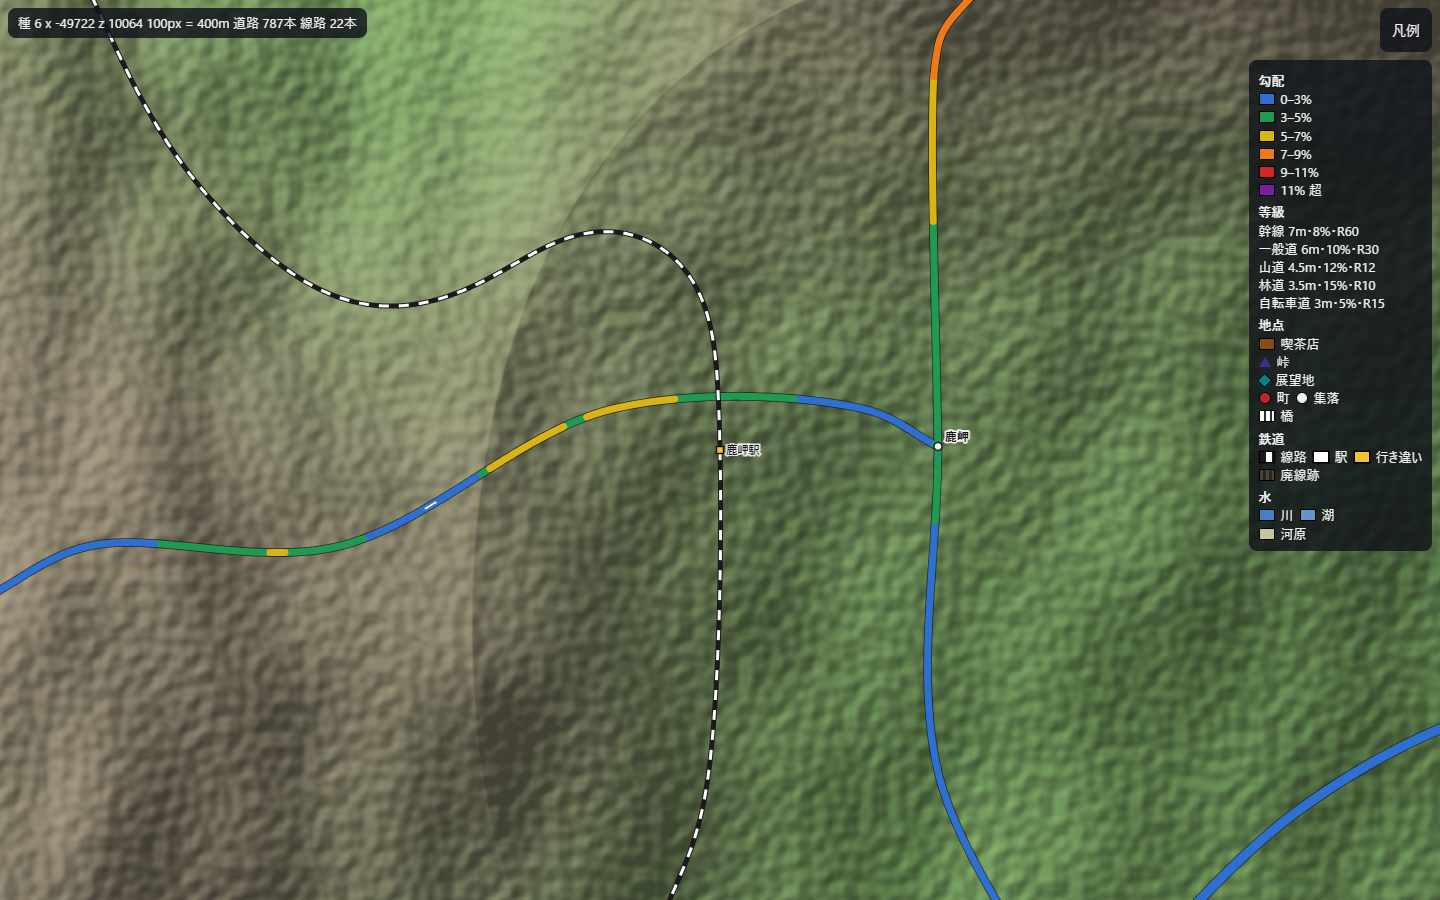
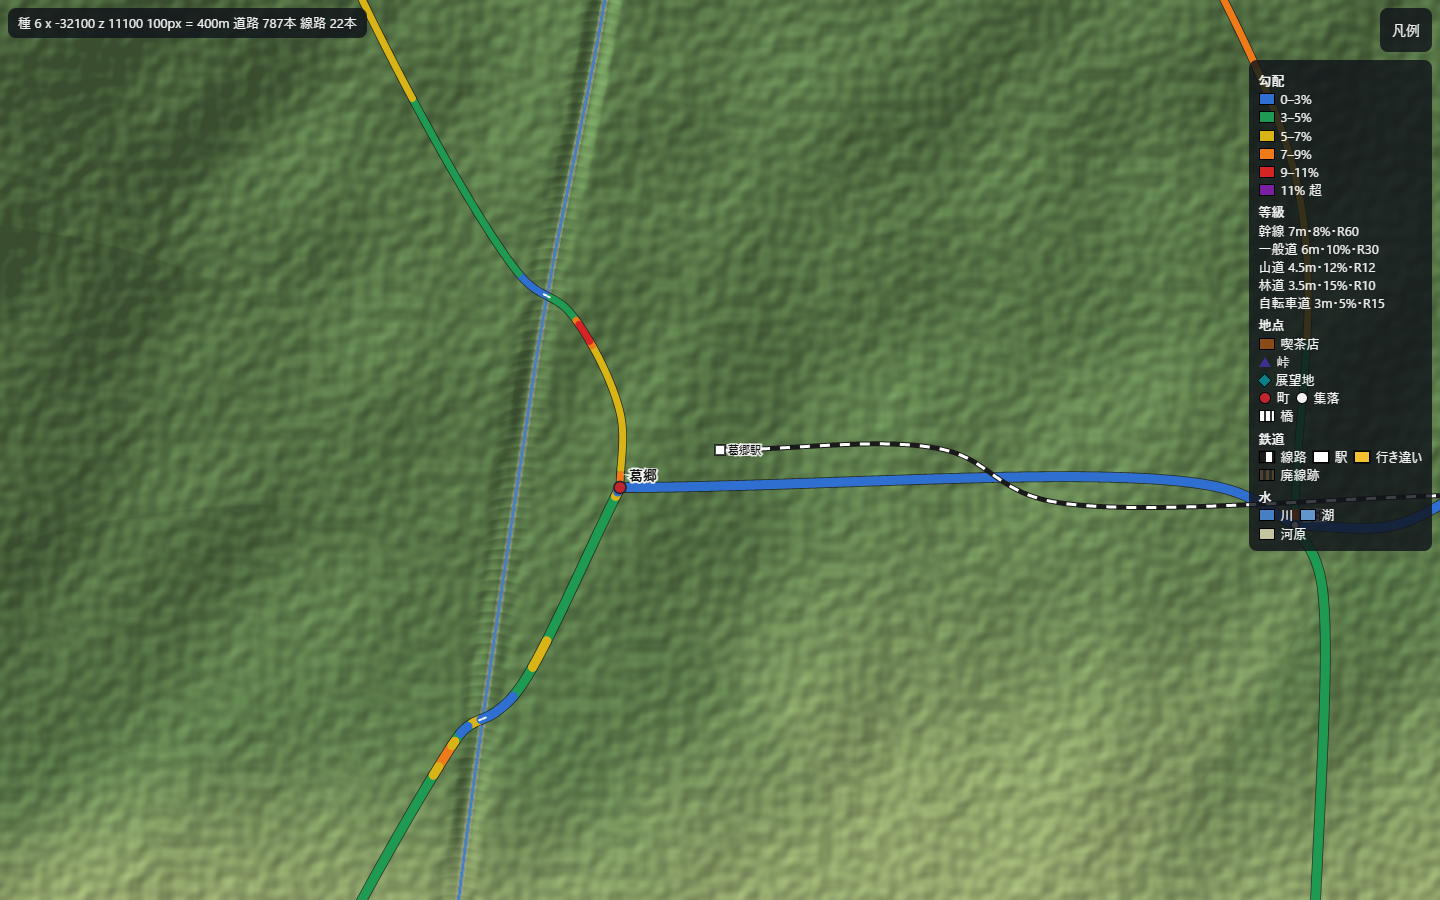
鉄道 L1: 起点の葛郷を必ず拠点にする（2026-11-14 決定）、回り込みが直線の 1.7 倍を超える辺は作らない

diff --git a/src/shared/world/rail.ts b/src/shared/world/rail.ts
@@ -4,7 +4,7 @@
 // 分岐に関わる計算は加減乗除・sqrt・floor・abs・min・max だけで書く。
 
 import { now } from "./clock.ts";
-import { MAX_SEA_CROSSING, NODE_CELL, ROAD_MIN_ELEVATION } from "./constants.ts";
+import { MAX_SEA_CROSSING, NODE_CELL, ORIGIN, ROAD_MIN_ELEVATION } from "./constants.ts";
 import { hashUnit } from "./hash.ts";
 import { longestSeaRun, nodeLess } from "./nodes.ts";
 import { findRailRoute, RAIL_ROUTE_PARAMS, type RailGrid } from "./rail-route.ts";
@@ -26,6 +26,8 @@ const RAIL_MARGIN = 3000;
 export const RAIL_MAX_GRADE = 0.025;
 const TRUNK_MIN_RADIUS = 300;
 const BRANCH_MIN_RADIUS = 200;
+/** 経路の長さが直線のこの倍（＋2km）を超える辺は作らない（大きく回り込んで高さを稼ぐ線を作らない）【初期値】 */
+const MAX_DETOUR = 1.7;
 /** 辺の最大の長さ (m) */
 const MAX_EDGE = 60000;
 /** 支線を出す拠点の割合と、廃線にする支線の割合 */
@@ -109,13 +111,14 @@ export class Railways {
     const key = `${rcx},${rcz}`;
     if (this.hubCache.has(key)) return this.hubCache.get(key)!;
     let h = this.rawHub(rcx, rcz);
-    if (h)
+    // 起点の葛郷は必ず拠点にする（決定 2026-11-14）。葛郷から 12km 以内の隣の拠点は作らない
+    if (h && h.id !== ORIGIN.node)
       for (let dz = -1; dz <= 1 && h; dz++)
         for (let dx = -1; dx <= 1 && h; dx++) {
           if (!dx && !dz) continue;
           const o = this.rawHub(rcx + dx, rcz + dz);
           if (!o || d2(o, h) > HUB_GAP * HUB_GAP) continue;
-          if (o.importance > h.importance || (o.importance === h.importance && nodeLess(o, h))) h = null;
+          if (o.id === ORIGIN.node || o.importance > h.importance || (o.importance === h.importance && nodeLess(o, h))) h = null;
         }
     this.hubCache.set(key, h);
     return h;
@@ -125,6 +128,15 @@ export class Railways {
     const key = `${rcx},${rcz}`;
     if (this.rawHubCache.has(key)) return this.rawHubCache.get(key)!;
     const k = RAIL_CELL / NODE_CELL;
+    // 起点の格子では起点の町を拠点の候補にする
+    const [ocx, ocz] = ORIGIN.node.slice(2).split("_").map(Number);
+    if (Math.floor(ocx / k) === rcx && Math.floor(ocz / k) === rcz) {
+      const o = this.world.node(ocx, ocz);
+      if (o) {
+        this.rawHubCache.set(key, o);
+        return o;
+      }
+    }
     let best: WorldNode | null = null;
     for (let j = 0; j < k; j++)
       for (let i = 0; i < k; i++) {
@@ -370,7 +382,6 @@ export class Railways {
     const gz = Math.round(b.z / RAIL_GRID) - grid.iz0;
     const route = findRailRoute(grid, sx, sz, gx, gz, { ...RAIL_ROUTE_PARAMS, maxGrade: RAIL_MAX_GRADE });
     if (!route) return { line: null, expanded: 0 };
-    // 経路の費用が直線の 3 倍を超える辺は作らない（遠回りの線は引かない）
     const n0 = route.cells.length / 2;
     const raw = new Float64Array(n0 * 2);
     const keep = new Uint8Array(n0);
@@ -388,7 +399,7 @@ export class Railways {
     raw[(n0 - 1) * 2] = b.x;
     raw[(n0 - 1) * 2 + 1] = b.z;
     const straight = Math.sqrt((a.x - b.x) * (a.x - b.x) + (a.z - b.z) * (a.z - b.z));
-    if (polylineLength(raw) > 3 * straight + 2000) return { line: null, expanded: route.expanded };
+    if (polylineLength(raw) > MAX_DETOUR * straight + 2000) return { line: null, expanded: route.expanded };
     const minR = e.kind === "trunk" ? TRUNK_MIN_RADIUS : BRANCH_MIN_RADIUS;
     let xz = shapeCenterline(raw, keep, minR, RAIL_STEP);
     // 線路は道路より曲がりにくいので、半径が足りない所が残れば、ゆるめる回数を増やす

diff --git a/tests/rail.test.ts b/tests/rail.test.ts
@@ -1,12 +1,12 @@
 import { describe, expect, it } from "vitest";
-import { WORLD_SEED } from "../src/shared/world/constants.ts";
+import { ORIGIN, WORLD_SEED } from "../src/shared/world/constants.ts";
 import { railHash, roadsHash } from "../src/shared/world/inspect.ts";
 import { RAIL_MAX_GRADE, solveProfile } from "../src/shared/world/rail.ts";
 import { circumradius } from "../src/shared/world/shape.ts";
 import { World } from "../src/shared/world/world.ts";
 
-// 起点の西の、線路が 1 本通る 16km 四方
-const RECT = { x0: -53000, z0: 0, x1: -37000, z1: 16000 };
+// 起点の葛郷（必ず拠点）の東の 16km 四方。葛新線が通る
+const RECT = { x0: -34000, z0: 3000, x1: -18000, z1: 19000 };
 
 describe("鉄道の生成（鉄道の草案 L1）", () => {
   const w = new World(WORLD_SEED);
@@ -14,6 +14,8 @@ describe("鉄道の生成（鉄道の草案 L1）", () => {
 
   it("線路が引かれ、勾配 2.5% と最小曲線半径を守り、駅は 3km 以上離れる", () => {
     expect(lines.length).toBeGreaterThan(0);
+    // 起点の葛郷は拠点で、線の端の駅になる
+    expect(lines.some((l) => l.start === ORIGIN.node || l.end === ORIGIN.node)).toBe(true);
     for (const l of lines) {
       const P = l.points;
       const n = P.length / 3;

diff --git a/artifacts/rail/summary.md b/artifacts/rail/summary.md
@@ -6,7 +6,7 @@
 
 | 部分 | ファイル | 中身 |
 |---|---|---|
-| 拠点と路線網 | `src/shared/world/rail.ts` | 24km 格子ごとに重要度のいちばん高い町（標高 400m 未満）を拠点にする。隣の格子の候補が 12km 以内で重要度が高ければ拠点にしない。幹線は拠点どうしの相対近傍グラフ（周囲 5×5 の格子、60km まで、海を 300m 以上渡らない）。支線は拠点の 30% から、8〜22km 先の拠点でない町へ（海沿いを好み、幹線と同じ向きは避ける）。支線の 35% は廃線 |
+| 拠点と路線網 | `src/shared/world/rail.ts` | 24km 格子ごとに重要度のいちばん高い町（標高 400m 未満）を拠点にする。隣の格子の候補が 12km 以内で重要度が高ければ拠点にしない。起点の葛郷は必ず拠点にし、葛郷から 12km 以内には別の拠点を作らない（決定 2026-11-14）。経路が直線の 1.7 倍＋2km より長くなる辺は作らない（大きく回り込んで高さを稼ぐ線を作らない）。幹線は拠点どうしの相対近傍グラフ（周囲 5×5 の格子、60km まで、海を 300m 以上渡らない）。支線は拠点の 30% から、8〜22km 先の拠点でない町へ（海沿いを好み、幹線と同じ向きは避ける）。支線の 35% は廃線 |
 | 経路探索 | `src/shared/world/rail-route.ts` | 100m 格子の A*（16 方向、1 歩で 45° まで）。勾配 2.5% を超える 1 歩の代わりに、まっすぐ跳んで地面の高い所をトンネル（地面が 12m 以上高い）、低い所を高架（8m 以上低い）で抜ける移動を試す。海・湖の橋は道路と同じ 300m まで |
 | 形と縦断 | `rail.ts`、`shape.ts`（点の間隔を引数にした。道路は 2m のまま） | 5m 間隔。最小曲線半径 幹線 300m・支線 200m（道路の整形の後に、線路だけゆるめる回数を足した）。縦断は σ150m で平滑化し、両端と道路との交わりを固定点にして、区間ごとの勾配の上限（2.5%、駅の前後 150m（支線 80m）は 0.3%）を守る列を解く（`solveProfile`）。両立しない固定点は外して数える |
 | 駅 | `rail.ts` | 拠点・終点の駅は、町の中心（道路の集まる接続点）から 300〜450m 離れた、平らで水の無い、道路から 50m 以上の所。途中の駅は線から 1km 以内の町・集落、駅どうし 3km 以上（重要度の高い方を残す）。前の行き違いの駅から 8km 以上の駅を行き違いの駅にする。橋・トンネルの中の途中の駅は外す。駅名は町・集落の名前。線の名前は両端の町の 1 字ずつ（「〇〇線」）、支線は終点の町の名前 |
@@ -24,33 +24,36 @@
 
 | 項目 | 値 |
 |---|---|
-| 拠点 | 17（葛郷は拠点ではない） |
-| 線 | 23（経路が見つからなかった辺 0） |
-| 延長 | 幹線 580km、支線 34km、廃線 15km |
-| 駅 | 76（拠点 43・行き違い 29・小さな駅 30・終着 3 は線ごとの数） |
-| 道路との交わり | 踏切 169、跨道橋 39、橋の下 0、解けない 12（5%）。線 10km あたり 3.3 |
-| トンネル・橋 | 3.6km・7.7km |
+| 拠点 | 18（葛郷を含む） |
+| 線 | 22（作らなかった辺 3: どれも 1.7 倍を超える回り込み） |
+| 延長 | 幹線 485km（100km² あたり 4.8km）、支線 34km、廃線 15km |
+| 駅 | 67（拠点 41・行き違い 24・小さな駅 25・終着 3 は線ごとの数） |
+| 道路との交わり | 踏切 145、跨道橋 32、橋の下 0、解けない 9（5%）。線 10km あたり 3.3 |
+| トンネル・橋 | 0km・2.0km（トンネルのあった山の線は回り込みが大きく、作らなかった） |
 | 最大勾配 | 2.5%（上限を超える区間 0） |
 | 最小曲線半径 | 294m（±30m の 3 点で測る。幹線 300m の 98%） |
-| データ量 | 点 12.6 万、1.5MB（Float32） |
-| 生成の時間（Node） | 計 24 秒。線 1 本の中央 0.4 秒、最大 5.5 秒（周りの道路の生成を含む） |
+| 道路の上を走る区間 | 5.3km（全体の 1%。道路の中心から 半幅＋4m 以内。浅い角度の交わりと短い並走） |
+| データ量 | 点 10.7 万、1.3MB（Float32） |
+| 生成の時間（Node） | 計 25 秒。線 1 本の中央 0.5 秒、最大 2.6 秒（周りの道路の生成を含む） |
 
 - 端末間の一致（`scripts/cross-engine.mjs`、`rail=1`）: Node・Chrome・Edge・WebKit で線路のハッシュが一致（36km 四方、線 2 本）。Firefox はこの PC では起動できない（今までと同じ）。
 - 線路を引いても道路のハッシュは変わらない（テスト）。
 - テスト 98 件（鉄道の 3 件を追加: 勾配・曲線半径・駅の間隔、問い合わせの順序によらず同じ・道路が変わらない、縦断の固定点）。
-- 2D 地図の画面写真: `map-wide.png`（100km 四方）、`map-origin.png`（葛郷の周り）、`map-station.png`（いちばん近い行き違いの駅、鹿岬）。地図の Worker で 100km 四方の線路がそろうまで 84 秒。
+- 2D 地図の画面写真: `map-wide.png`（100km 四方）、`map-origin.png`（葛郷の周り）、`map-origin-near.png`・`map-station.png`（葛郷駅。町の中心から北東へ 400m）。地図の Worker で 100km 四方の線路がそろうまで 86 秒。
 
 ## 見てもらいたい点・決めてもらう点
 
-1. **葛郷の近くに線路が無い。** いちばん近い駅（鹿岬）まで 17km。葛郷（重要度 0.88）は 24km 格子の中で拠点に選ばれず、近くを線も通らない。草案 11 章のとおり、葛郷に駅を置く調整（例: 起点の格子では葛郷を拠点にする）をするか相談したい。
-2. **線路の密度が草案の見込みの上限。** 幹線 580km（100km² あたり 5.8km）。北海道の平均（約 3km）の 2 倍。地図（`map-wide.png`）を見て、多ければ辺を減らす規則（草案 3.2）を入れる。
-3. 解けない交わり 12 か所（5%）。駅や別の交わりのすぐ近く（150m 以内）の踏切が多い。L2 で 3D にする前に、跨道橋に変える・駅をずらす等で 0 に近づけたい。
+1. **葛郷は拠点にした（決定 2026-11-14）。** 最初の試作では葛郷に線路が無く、いちばん近い駅まで 17km だった。拠点にすると葛郷から幹線が 2 本出たが、西の 1 本（茅葛線 72km）は山へ高さを稼ぐために 10km ほど大きく回り込んで戻る形になったので、回り込みの大きい辺は作らない規則を足した。今の葛郷は葛新線（28.8km、東へ）の端の駅。
+2. **線路の密度。** 幹線 485km（100km² あたり 4.8km）。北海道の平均（約 3km）より多い。地図（`map-wide.png`）を見て、多ければ辺を減らす規則（草案 3.2）を入れる。
+3. 解けない交わり 9 か所（5%）。駅や別の交わりのすぐ近く（150m 以内）の踏切が多い。L2 で 3D にする前に、跨道橋に変える・駅をずらす等で 0 に近づけたい。
+4. 線路が道路の上を走る区間が 1%（5.3km）ある。経路探索で道路を見ていないため。L2 の前に、探索に道路の近似（辺の直線など、生成の軽いもの）を入れて 0 にする。
 
 ## 草案と違えた所
 
 - 経路探索で道路を横切る費用（草案 4.1）は入れていない。探索の範囲（最大 40km 四方）の道路をすべて生成すると遅すぎるため、交わりは見つけた線の近くの道路だけで調べる。踏切の数は 線 10km あたり 3.3。
 - 拠点の駅を町の中心から 300〜450m 離した（草案では町の駅としか書いていない）。町の中心は道路の集まる接続点なので、そこで線を終えると踏切の高さが合わない所が多かった（最初の試作で 99 か所のうち 32 か所が解けなかった）。
 - 隣の格子の拠点が 12km 以内にあれば拠点にしない規則を足した（最初の試作で 4〜6km の短い幹線ができたため）。
+- 回り込みが直線の 1.7 倍＋2km を超える辺は作らない（草案は 3.2 で「2.5% で引けない辺は作らない」とだけ書いていた）。
 
 ## 確かめていないこと・残っていること
 

diff --git a/docs/history/specs/2026-11-14-railway-draft.md b/docs/history/specs/2026-11-14-railway-draft.md
@@ -252,4 +252,6 @@ interface RailCrossing {
 
 線路の生成（`src/shared/world/rail.ts`・`rail-route.ts`）と 2D 地図、検査を作った。`World.region()` にはまだ入れていない（ゲームの道路は今のまま）。`GENERATOR_VERSION` は L2 で `region()` に入れる時に上げる。数字と画面写真、草案と違えた所（道路を横切る費用は入れていない、拠点の駅を町の中心から 300〜450m 離す、近すぎる拠点を作らない）は [artifacts/rail/summary.md](../../../artifacts/rail/summary.md)。
 
-見てもらう点: 葛郷の近くに線路が無い（いちばん近い駅まで 17km。11 章）。幹線の密度は 100km² あたり 5.8km で、3.2 の見込みの上限。
+決定（2026-11-14）: 起点の葛郷は必ず拠点にする（11 章）。葛郷から 12km 以内には別の拠点を作らない。あわせて、経路が直線の 1.7 倍＋2km を超える辺は作らない規則を足した（葛郷から西へ出る幹線が山へ大きく回り込んだため）。今の葛郷は葛新線の端の駅。
+
+見てもらう点: 幹線の密度は 100km² あたり 4.8km で、北海道の平均（約 3km）より多い（3.2）。L2 の前に、解けない交わり（5%）と、線路が道路の上を走る区間（1%）を 0 に近づける。
